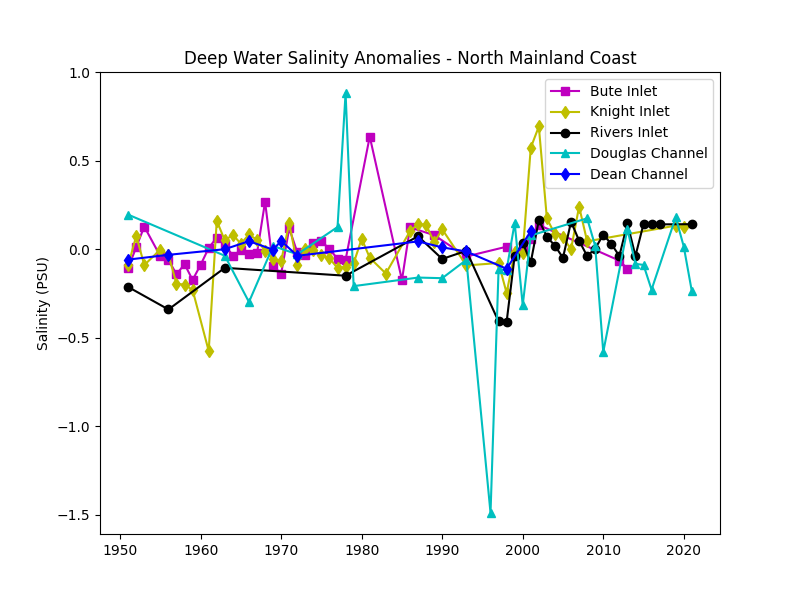
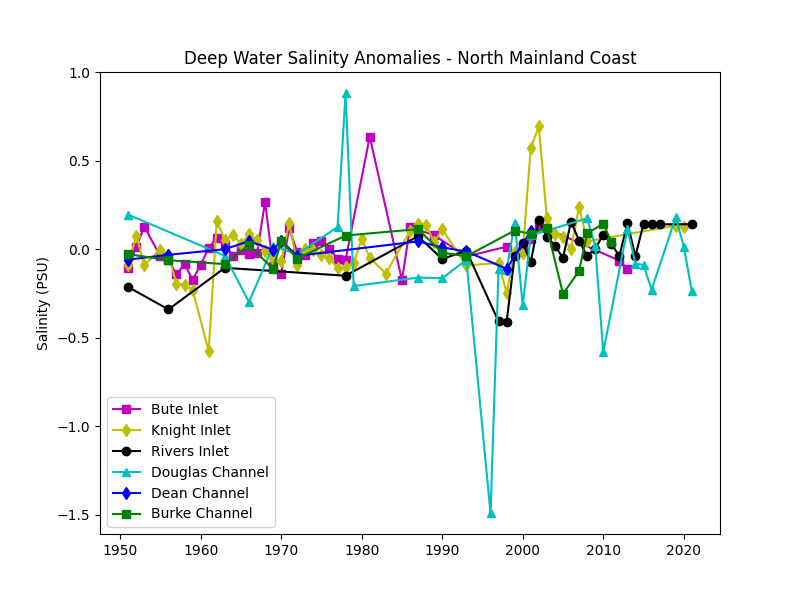
add Burke Channel

diff --git a/get-maps.py b/get-maps.py
@@ -27,6 +27,7 @@ maps = [
     Inlet(boundaries=[-127.5, 52.3, -126.7, 53.0], dimensions="500x700", name="Dean Channel"),
     Inlet(boundaries=[-125.0, 50.3, -124.1, 50.4], dimensions="500x400", name="Toba Inlet"),
     Inlet(boundaries=[-125.3, 50.2, -124.6, 51.0], dimensions="500x700", name="Bute Inlet"),
+    Inlet(boundaries=[-127.9, 51.8, -127.2, 52.4], dimensions="600x600", name="Burke Channel"),
 ]
 
 mapbox_url = "https://api.mapbox.com/styles/v1/cyborgsphinx/{}/static/{}/{}"
